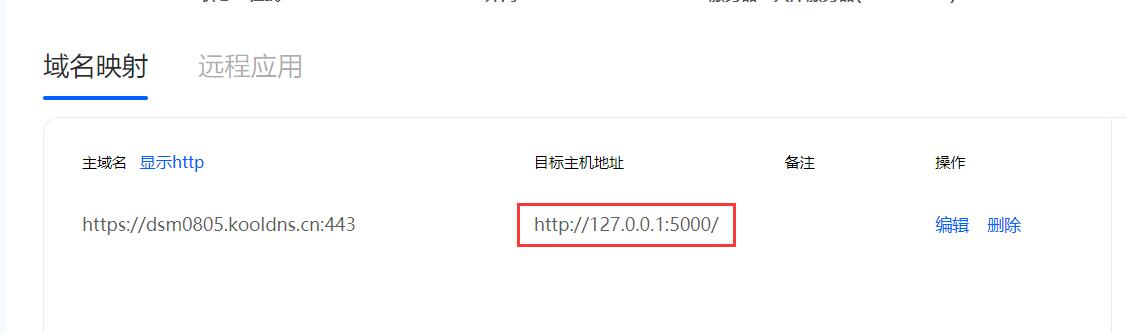
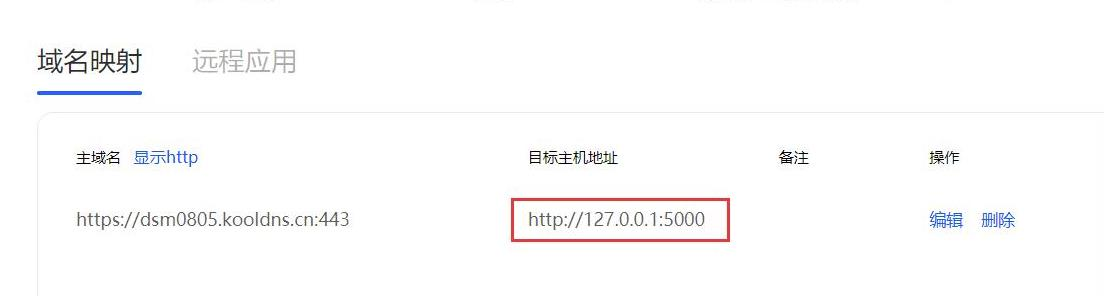
commit update pad.md and domain_name.md

diff --git a/docs/zh/guide/linkease/account/pay.md b/docs/zh/guide/linkease/account/pay.md
@@ -18,7 +18,7 @@
 
 ## 购买套餐
 
-### 易有云APP
+### 易有云APP（安卓用户可用，iOS用户不能用易有云APP购买套餐，需要到PC客户端购买）
 
  1、绑定设备后，登录易有云App，首页【我的网盘】里，点击需要购买套餐的网盘【更多选择】——【设备信息】；
 
@@ -67,17 +67,45 @@
 
 ![image](./image/pay/24.jpg)
 
+- 点击【绑定当前设备】
+
+![image](./image/pay/26.jpg)
+
 
 - 易有云新用户可以免费使用30天高级套餐，30天后如果该设备没有绑定过套餐或者套餐过期则会弹窗提示绑定或购买套餐
 
 ![image](./image/pay/buy1.jpg)
 
 
+### 续费或者升级
+
+### 续费
+#### 续费套餐规则：已付费并未过期的套餐，最长可续费至剩余2年有效期。
+#### 注意：续费仅可选择相同的套餐
+
+
+### 升级
+#### 升级套餐规则：已付费并未过期的标准套餐可以升级至高级套餐
+#### 注意：升级方式为补交套餐差价，升级后套餐有效时间将按所选升级套餐有效时长重新计算。
+
+
+1、绑定设备后，登录易有云PC客户端，在左上角选择切换要购买套餐的设备后，选择【管理】- 【设备套餐】- 【套餐管理】；  
+
+![image](./image/pay/20.jpg)
+
+2、可以选择续费或者升级套餐
+
+![image](./image/pay/25.jpg)
+
+
+
+
+
 ## 常见问题
 
-**1、我绑定了某个套餐后，怎么绑定其他套餐？**
+**1、我现在是免费套餐，怎么购买新套餐？**
 
-答：目前如果你已经绑定了某个套餐，可以等套餐过期后再购买或者绑定其他套餐；如果套餐没过期可以在“套餐管理-已购套餐”绑定其他套餐。
+答：新用户可以免费使用30天高级套餐，如果套餐到期或者想购买新套餐，可以到【设备管理】- 【套餐管理】- 选择要购买的套餐。
 
 **2、旧的设备离线或者不用了，但是套餐绑定了旧设备，怎么将套餐绑定到其他新设备上？**
 

diff --git a/docs/zh/guide/ddnsto/install/device/domain_name.md b/docs/zh/guide/ddnsto/install/device/domain_name.md
@@ -16,9 +16,9 @@
 
 **群晖穿透设置有点不一样：**
 
-假如我群晖主机IP是http://127.0.0.1/，那就后面就加个5000端口，那么就是http://127.0.0.1:5000/；
+假如我群晖主机IP是http://127.0.0.1，那就后面就加个5000端口，那么就是http://127.0.0.1:5000；
 
-* 群晖若遇到IP+5000端口穿透不过去的，建议改成http://127.0.0.1:5000/
+* 群晖若遇到IP+5000端口穿透不过去的，建议改成http://127.0.0.1:5000
 
   ![image-20210203001606683](./koolshare_merlin/synology0805-1.jpg) 
 
